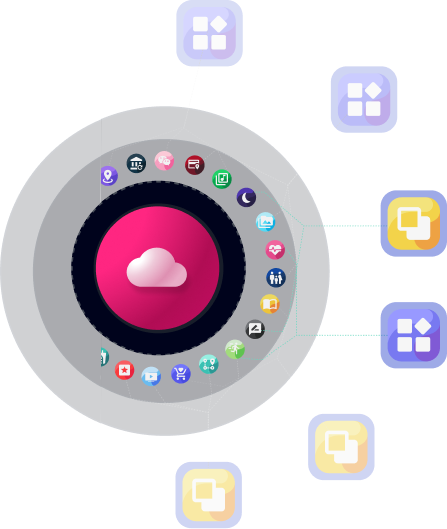
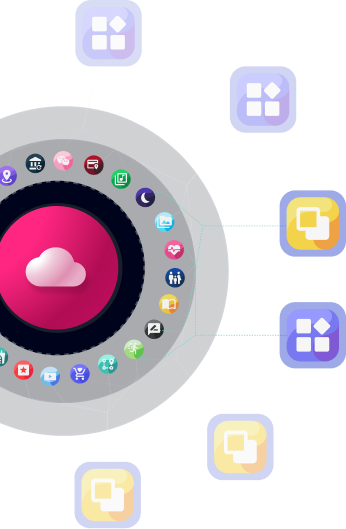
header fixed pos ,mobile resposive still need work

diff --git a/src/pages/data-connectors/component/Hero.tsx b/src/pages/data-connectors/component/Hero.tsx
@@ -1,20 +1,33 @@
-import { Box, Heading, HStack, Image, Text, VStack } from "@chakra-ui/react";
+import { Box, Flex, Heading, Image, Text, VStack } from "@chakra-ui/react";
 
 const Hero = () => {
   return (
-    <Box width={"full"} bgGradient="linear(to-r, bgLight, bgDark)">
-      <HStack
-        maxW={"container.xl"}
-        pr={32}
-        m={"auto"}
+    <Box
+      width={"full"}
+      bgGradient="linear(to-r, bgLight, bgDark)"
+      style={{ marginTop: "62px" }}
+    >
+      <Flex
+        // maxW={"container.xl"}
+        pr={[4, 10, 12, 40]}
         justifyContent={"space-between"}
+        alignItems={"center"}
+        direction={{ base: "column-reverse", md: "row" }}
       >
-        <Image src="./data_connectors_graphic.png" py={16} ml={-28} />
+        <Image
+          src="./data_connectors_graphic.png"
+          py={16}
+          alignSelf={"start"}
+        />
 
-        <VStack color={"whiteText"} alignItems={"flex-start"} pl={96}>
+        <VStack
+          color={"whiteText"}
+          alignItems={"flex-start"}
+          pl={[4, 10, 12]}
+          pt={10}
+        >
           <Heading
             size="2xl"
-            noOfLines={2}
             fontSize="56px"
             fontWeight={300}
             textAlign={"left"}
@@ -27,6 +40,7 @@ const Hero = () => {
           </Heading>
           <Text
             fontSize="2xl"
+            noOfLines={4}
             color={"primary"}
             fontWeight={600}
             textAlign={"left"}
@@ -38,13 +52,14 @@ const Hero = () => {
             fontWeight={600}
             color={"grayText"}
             textAlign={"left"}
+            maxW={"400px"}
           >
             Prifina helps users retreive, agregate and organize thier personal
             data in one loction. For developers this means you can build on
             incredibly rich sets of data combined in near limitless ways
           </Text>
         </VStack>
-      </HStack>
+      </Flex>
     </Box>
   );
 };

diff --git a/src/pages/data-sources/component/Hero.tsx b/src/pages/data-sources/component/Hero.tsx
@@ -1,13 +1,24 @@
-import { Box, Heading, HStack, Image, Text, VStack } from "@chakra-ui/react";
+import { Box, Flex, Heading, Image, Text, VStack } from "@chakra-ui/react";
 
 const Hero = () => {
   return (
-    <Box width={"full"} bgGradient="linear(to-r, bgDark, bgLight)">
-      <HStack maxW={"container.xl"} pl={32} m={"auto"}>
-        <VStack color={"whiteText"} alignItems={"flex-start"} pr={16}>
+    <Box
+      width={"full"}
+      bgGradient="linear(to-r, bgDark, bgLight) "
+      style={{ marginTop: "62px" }}
+    >
+      <Flex
+        // maxW={"container.xl"}
+        py={14}
+        pl={[4, 4, 4, 32]}
+        gap={8}
+        justifyContent={"space-between"}
+        alignItems={"center"}
+        direction={{ base: "column-reverse", md: "row" }}
+      >
+        <VStack color={"whiteText"} alignItems={"start"} minW={"350px"}>
           <Heading
             size="2xl"
-            noOfLines={2}
             fontSize="56px"
             fontWeight={300}
             textAlign={"left"}
@@ -31,14 +42,19 @@ const Hero = () => {
             fontWeight={600}
             color={"grayText"}
             textAlign={"left"}
+            maxW={"400px"}
           >
             Prifina helps users retreive, agregate and organize thier personal
             data in one loction. For developers this means you can build on
             incredibly rich sets of data combined in near limitless ways
           </Text>
         </VStack>
-        <Image src="./data_source_graphic.png" />
-      </HStack>
+        <Image
+          src="./data_source_graphic.png"
+          pr={[2, 4, 8, 24]}
+          objectFit={"scale-down"}
+        />
+      </Flex>
     </Box>
   );
 };

diff --git a/src/component/Header.tsx b/src/component/Header.tsx
@@ -1,24 +1,48 @@
-import { HStack, Button, chakra, Box } from "@chakra-ui/react";
+import {
+  HStack,
+  Button,
+  chakra,
+  Box,
+  Flex,
+  useDisclosure,
+  Icon,
+  IconButton,
+} from "@chakra-ui/react";
+import { IoMenu } from "react-icons/io5";
+import { useRef } from "react";
 
 const Header = () => {
+  const { isOpen, onOpen, onClose } = useDisclosure();
+  // const btnRef = useRef<HTMLDivElement>();
   return (
-    <Box as="header" bg="bgDark" width={"full"}>
+    <Box as="header" bg="bgDark" width={"full"} position={"fixed"} zIndex={100}>
       <HStack
         justifyContent={"space-between"}
         px={[2, 4, 4, 16]}
         py={4}
-        maxW={"container.xl"}
+        // maxW={"container.xl"}
+        width={"full"}
         m="auto"
       >
         <chakra.img src="logo.png" />
-        <HStack as={"nav"} spacing={5}>
+        <IconButton
+          variant={"square"}
+          fontSize={"2xl"}
+          minW={"fit-content"}
+          onClick={onOpen}
+          aria-label="Menu"
+          icon={<IoMenu />}
+          display={["block", "block", "none"]}
+        />
+
+        <Flex as={"nav"} gap={5} display={["none", "none", "flex"]}>
           <Button variant="square">PLATFORM</Button>
           <Button variant="square" border="1px">
             DATA MINE
           </Button>
           <Button variant="square">YOUR DATA</Button>
           <Button variant="square">SLACK</Button>
-        </HStack>
+        </Flex>
       </HStack>
     </Box>
   );

diff --git a/src/component/Sortby.tsx b/src/component/Sortby.tsx
@@ -1,4 +1,12 @@
-import { Button, HStack, Tab, TabList, Tabs, Text } from "@chakra-ui/react";
+import {
+  Button,
+  HStack,
+  Tab,
+  TabList,
+  Tabs,
+  Text,
+  Wrap,
+} from "@chakra-ui/react";
 import DataContext from "../contexts/DataContext";
 import { useContext } from "react";
 
@@ -6,7 +14,7 @@ const Sortby = () => {
   const { tabIndex } = useContext(DataContext);
 
   return (
-    <HStack color={"whiteText"} spacing={6}>
+    <Wrap color={"whiteText"} spacing={6} pl={6}>
       <Text fontSize="xl" fontWeight={600}>
         Sort By
       </Text>
@@ -64,7 +72,7 @@ const Sortby = () => {
       >
         {tabIndex ? "Request Connector" : "Request Data Source"}
       </Button>
-    </HStack>
+    </Wrap>
   );
 };
 export default Sortby;

diff --git a/src/component/Sidebar.tsx b/src/component/Sidebar.tsx
@@ -2,7 +2,13 @@ import { VStack, Button, Text } from "@chakra-ui/react";
 
 const Sidebar = () => {
   return (
-    <VStack alignItems={"start"} bg={"bgItem"} p={"6"} borderRadius={"8px"}>
+    <VStack
+      alignItems={"start"}
+      bg={"bgItem"}
+      p={"6"}
+      borderRadius={"8px"}
+      display={["none", "none", "flex"]}
+    >
       <Text color={"whiteText"} fontSize="24px" textAlign={"left"}>
         Categories
       </Text>

diff --git a/src/component/DataToggle.tsx b/src/component/DataToggle.tsx
@@ -15,10 +15,11 @@ const DataToggle = () => {
         variant="unstyled"
         color={"whiteText"}
         bgGradient="linear(to-r, bgLight 40%, primary 70%)"
-        m="auto"
         onChange={(index) => setTabIndex(index)}
       >
-        <TabList maxW={"container.xl"} mx={"auto"}>
+        <TabList
+        // maxW={"container.xl"} mx={"auto"}
+        >
           <Tab
             px={10}
             fontSize={"lg"}

diff --git a/src/component/DataWrapper.tsx b/src/component/DataWrapper.tsx
@@ -17,8 +17,8 @@ const DataWrapper = ({ children }: Props) => {
       <DataToggle />
       <Box width={"full"}>
         <HStack
-          maxW={"container.xl"}
-          mx={"auto"}
+          // maxW={"container.xl"}
+          // mx={"auto"}
           py={"8"}
           px={"12"}
           spacing={"10"}

diff --git a/src/theme.js b/src/theme.js
@@ -1,6 +1,7 @@
 import { extendTheme, theme as base } from "@chakra-ui/react";
 
 const theme = extendTheme({
+  
     colors:{
         primary: "#6AD9C1",
         hover : "#04B48E",
